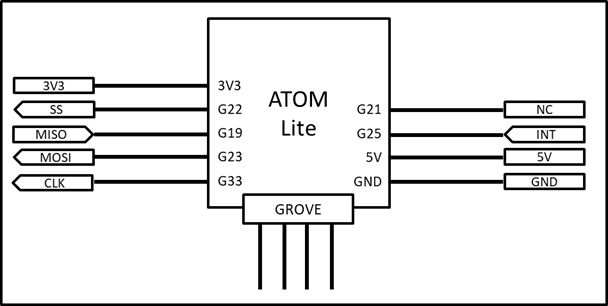
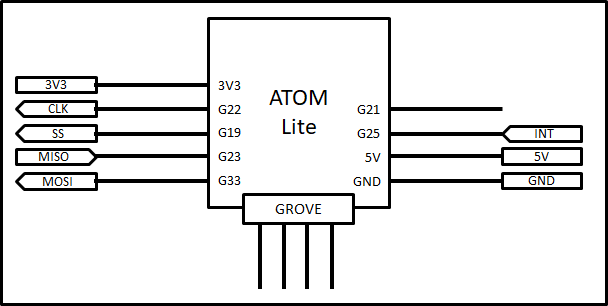
change pin assign

diff --git a/src/utility/can/driver/mcp2515/driver_mcp2515_config.hpp b/src/utility/can/driver/mcp2515/driver_mcp2515_config.hpp
@@ -26,16 +26,16 @@
 #endif
 
 #ifndef CAN_COMMUNICATION_SPI_PIN_CS
-#define CAN_COMMUNICATION_SPI_PIN_CS G22
+#define CAN_COMMUNICATION_SPI_PIN_CS SS
 #endif
 #ifndef CAN_COMMUNICATION_SPI_PIN_CLK
-#define CAN_COMMUNICATION_SPI_PIN_CLK G33
+#define CAN_COMMUNICATION_SPI_PIN_CLK SCK
 #endif
 #ifndef CAN_COMMUNICATION_SPI_PIN_MISO
-#define CAN_COMMUNICATION_SPI_PIN_MISO G19
+#define CAN_COMMUNICATION_SPI_PIN_MISO MISO
 #endif
 #ifndef CAN_COMMUNICATION_SPI_PIN_MOSI
-#define CAN_COMMUNICATION_SPI_PIN_MOSI G23
+#define CAN_COMMUNICATION_SPI_PIN_MOSI MOSI
 #endif
 ////////////////////////////////////////////////////////////////////////////////////
 

diff --git a/src/utility/can/driver/esp32can/driver_esp32can.cpp b/src/utility/can/driver/esp32can/driver_esp32can.cpp
@@ -24,8 +24,8 @@ bool DriverEsp32can::begin()
     bool result = false;
     //////////////////////////////////
     CAN_cfg.speed     = this->can_speed;
-    CAN_cfg.tx_pin_id = (gpio_num_t)CAN_COMMUNICATION_GROVE_PIN_TX;
-    CAN_cfg.rx_pin_id = (gpio_num_t)CAN_COMMUNICATION_GROVE_PIN_RX;
+    CAN_cfg.tx_pin_id = (gpio_num_t)CAN_COMMUNICATION_GROVE_PIN_SDA;
+    CAN_cfg.rx_pin_id = (gpio_num_t)CAN_COMMUNICATION_GROVE_PIN_SCL;
     CAN_cfg.rx_queue  = xQueueCreate(rx_queue_size, sizeof(CAN_frame_t));
     ESP32Can.CANInit();
     //////////////////////////////////

diff --git a/src/utility/can/driver/esp32can/driver_esp32can_config.hpp b/src/utility/can/driver/esp32can/driver_esp32can_config.hpp
@@ -22,11 +22,11 @@
 #define CAN_COMMUNICATION_ESP32CAN_QUEUE_SIZE 10
 #endif
 
-#ifndef CAN_COMMUNICATION_GROVE_PIN_TX
-#define CAN_COMMUNICATION_GROVE_PIN_TX G26 /*DAC*/
+#ifndef CAN_COMMUNICATION_GROVE_PIN_SDA
+#define CAN_COMMUNICATION_GROVE_PIN_SDA DAC2
 #endif
-#ifndef CAN_COMMUNICATION_GROVE_PIN_RX
-#define CAN_COMMUNICATION_GROVE_PIN_RX G36 /*ADC*/
+#ifndef CAN_COMMUNICATION_GROVE_PIN_SCL
+#define CAN_COMMUNICATION_GROVE_PIN_SCL ADC2
 #endif
 ////////////////////////////////////////////////////////////////////////////////////
 

diff --git a/src/utility/web/web_communication_impl.hpp b/src/utility/web/web_communication_impl.hpp
@@ -11,8 +11,8 @@
 #ifndef MASIRO_PROJECT_TOY_BOX_WEB_COMMUNICATION_IMPL_HPP
 #define MASIRO_PROJECT_TOY_BOX_WEB_COMMUNICATION_IMPL_HPP
 
+#include "../../can_data_viewer_info.hpp"
 #include "../can_data_viewer_conf.hpp"
-#include "can_data_viewer_info.hpp"
 
 #include <WiFi.h>
 #include <vector>

diff --git a/src/utility/can/can_communication_impl.hpp b/src/utility/can/can_communication_impl.hpp
@@ -11,7 +11,7 @@
 #ifndef MASIRO_PROJECT_TOY_BOX_CAN_COMMUNICATION_IMPL_HPP
 #define MASIRO_PROJECT_TOY_BOX_CAN_COMMUNICATION_IMPL_HPP
 
-#include "can_data_viewer_info.hpp"
+#include "../../can_data_viewer_info.hpp"
 #include "driver/driver_can_abstract.hpp"
 
 #include <vector>

diff --git a/src/utility/can/driver/driver_can_abstract.hpp b/src/utility/can/driver/driver_can_abstract.hpp
@@ -11,7 +11,7 @@
 #ifndef MASIRO_PROJECT_TOY_BOX_DRIVER_CAN_ABSTRACT_HPP
 #define MASIRO_PROJECT_TOY_BOX_DRIVER_CAN_ABSTRACT_HPP
 
-#include "can_data_viewer_info.hpp"
+#include "../../../can_data_viewer_info.hpp"
 
 namespace MaSiRoProject
 {

diff --git a/src/utility/can/can_communication.cpp b/src/utility/can/can_communication.cpp
@@ -10,9 +10,10 @@
  */
 #include "can_communication.hpp"
 
+#include "../can_data_viewer_conf.hpp"
 #include "can_communication_impl.hpp"
-#include "can_data_viewer_conf.hpp"
 #include "driver/can_config.h"
+
 
 namespace MaSiRoProject
 {

diff --git a/src/utility/web/web_communication.hpp b/src/utility/web/web_communication.hpp
@@ -11,7 +11,7 @@
 #ifndef MASIRO_PROJECT_TOY_BOX_WEB_COMMUNICATION_HPP
 #define MASIRO_PROJECT_TOY_BOX_WEB_COMMUNICATION_HPP
 
-#include "can_data_viewer_info.hpp"
+#include "../../can_data_viewer_info.hpp"
 
 #include <WebServer.h>
 

diff --git a/src/utility/can/can_communication.hpp b/src/utility/can/can_communication.hpp
@@ -11,7 +11,7 @@
 #ifndef MASIRO_PROJECT_TOY_BOX_CAN_COMMUNICATION_HPP
 #define MASIRO_PROJECT_TOY_BOX_CAN_COMMUNICATION_HPP
 
-#include "can_data_viewer_info.hpp"
+#include "../../can_data_viewer_info.hpp"
 
 #include <vector>
 

diff --git a/src/utility/can_data_viewer.cpp b/src/utility/can_data_viewer.cpp
@@ -8,7 +8,7 @@
  * @copyright Copyright (c) 2022 / MaSiRo Project.
  *
  */
-#include "can_data_viewer.hpp"
+#include "../can_data_viewer.hpp"
 
 #include "can/can_communication.hpp"
 #include "web/controller_page.hpp"
